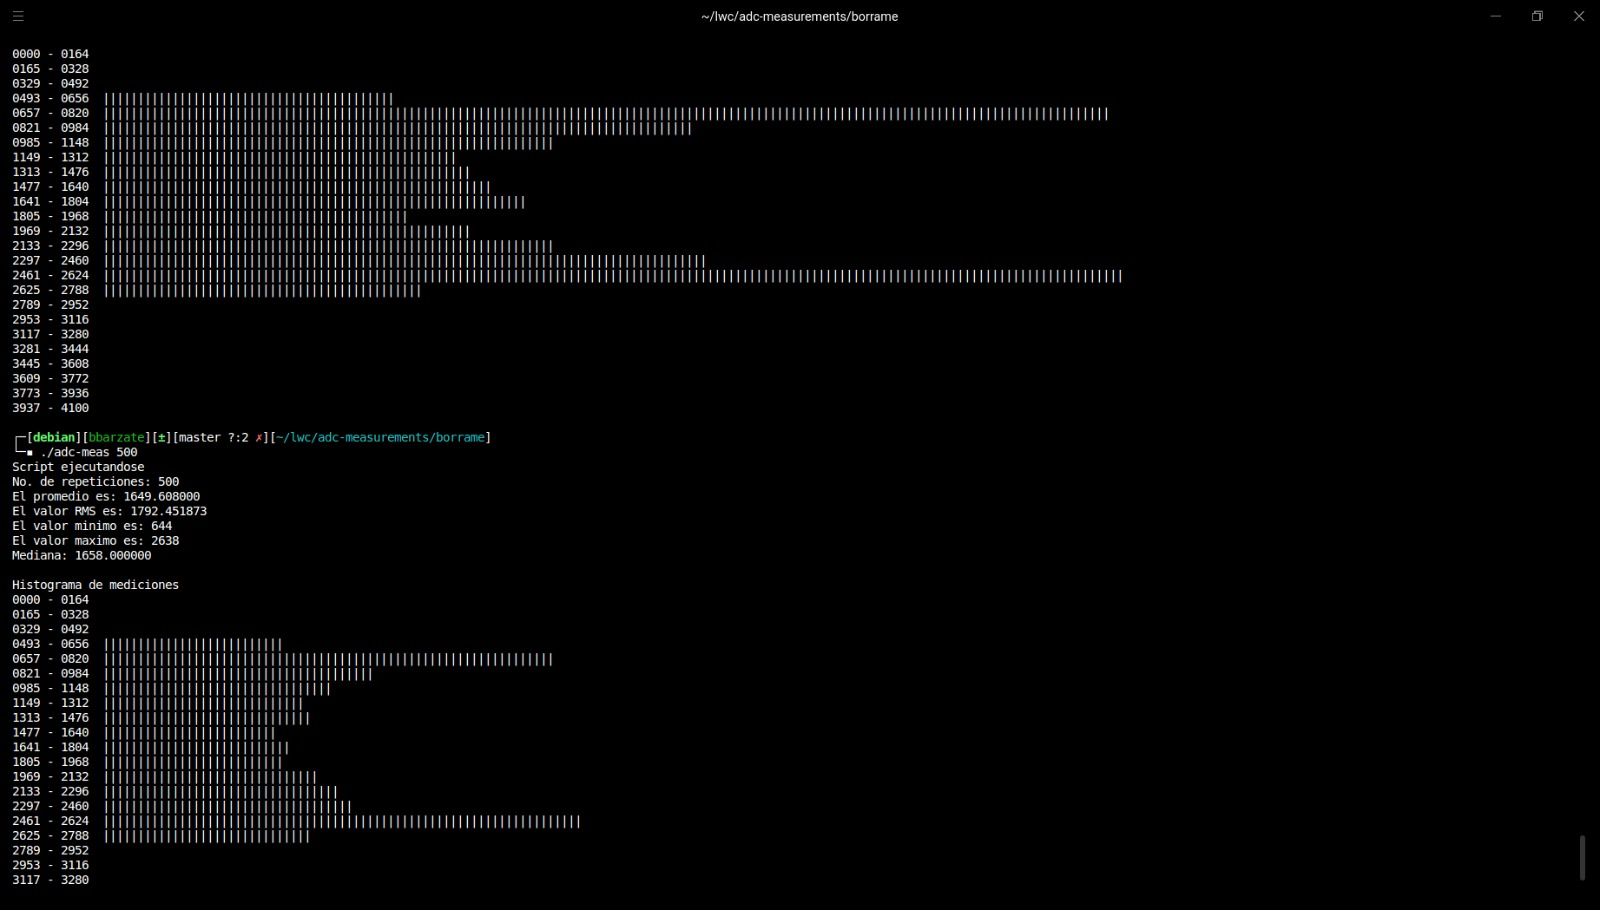
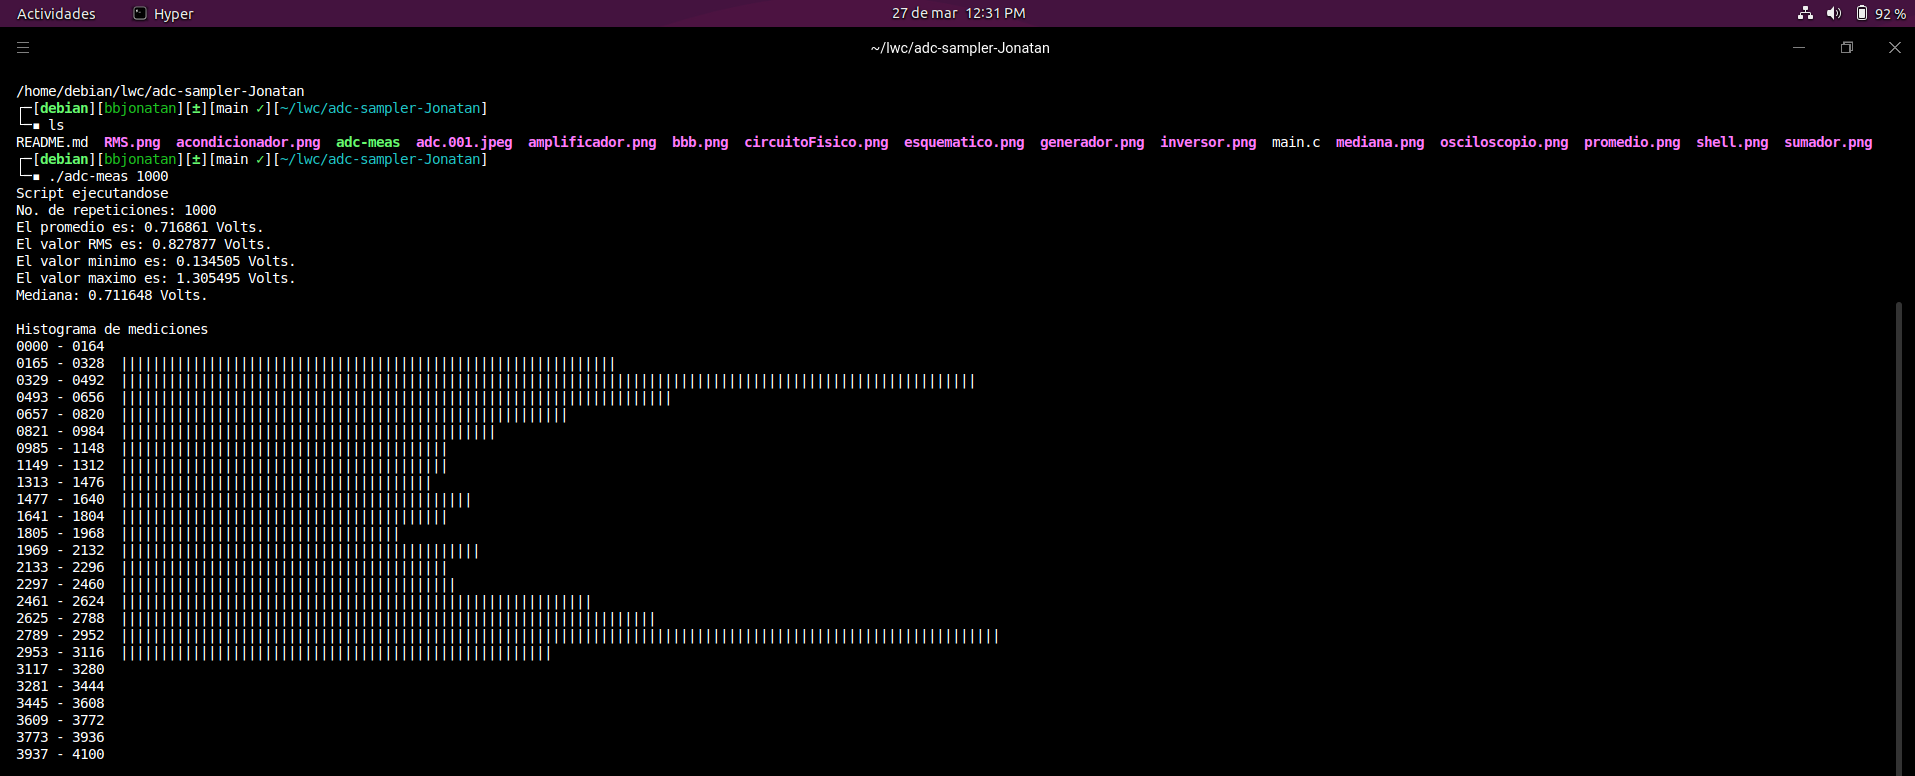
Resultados voltaje

Changed region(s): [[0.0, 0.0, 1.0, 0.9897], [0.9688, 0.8969, 1.0, 0.9897]]

diff --git a/README.md b/README.md
@@ -84,7 +84,7 @@ una combinación de resistencias de 2k ohms y 1k ohms, reduciendo el voltaje pic
 La segunda parte del circuito es un sumador inversor, con resistencias iguales para no afectar la magnitud de los voltajes, cuyo propósito es sumarle
 un voltaje para poder cambiar de nivel el voltaje y que permanezca arriba de cero, para ello se le suma una señal de -1V, con ello se elimina la 
 parte positiva de la señal y se le suma a la parte negativa; finalmente, como el circuito invierte la suma de los voltajes, se tiene una señal que va,
-aproximadamente, de 0.288V a 1.18V. En la imagen se muestra el circuito utilizado junto con los valores de las resistencias.
+aproximadamente, de 0.160V a 1.36V. En la imagen se muestra el circuito utilizado junto con los valores de las resistencias.
 
 ![](./acondicionador.png)
 
@@ -98,7 +98,7 @@ Se armó el circuito mostrado en la sección `Circuito utilizado` y utilizando e
 
 ![](./circuitoFisico.png)
 
-La señal de salida del circuito se muestra a continuación, la cual tiene un voltaje mínimo de 288 mV y máxima de 1.18V, por lo que se puede conectar sin problema al AIN0 de la BeagleBone Black.
+La señal de salida del circuito se muestra a continuación, la cual tiene un voltaje mínimo de 160 mV y máxima de 1.36V, por lo que se puede conectar sin problema al AIN0 de la BeagleBone Black.
 
 ![](./osciloscopio.png)
 
@@ -154,6 +154,11 @@ puede otorgar el ADC, en 25 rangos, cada uno de 164 unidades.
 
 # Resultados
 
-En la siguiente imagen se muestra el resultado mostrado en terminal al ejecutar el script con 500 mediciones.
+En la siguiente imagen se observa el resultado mostrado en terminal al ejecutar el script con 500 mediciones.
+
+![](./shell2.png)
+
+En la siguiente imagen se observa el resultado mostrado en terminal al ejecutar el script con 1000 mediciones. 
 
 ![](./shell.png)
+
